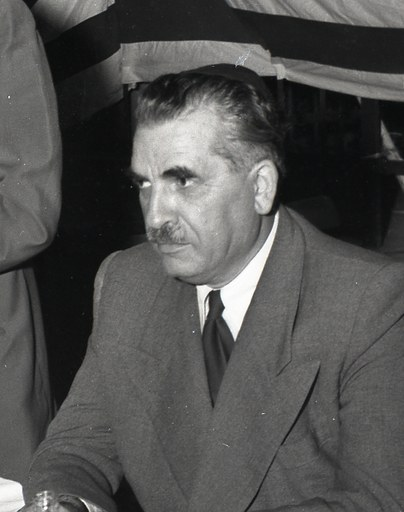
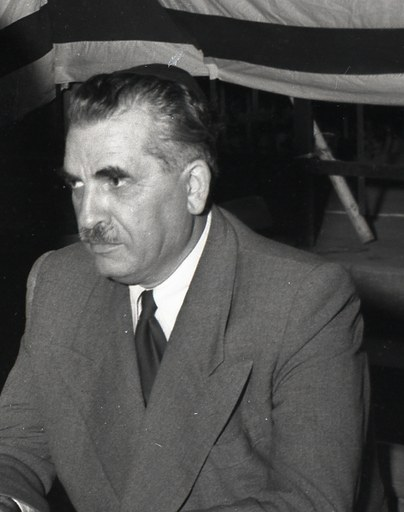
Portraits review fixes: NOTICE share-alike test, BY-SA template probes, unnamed artists, policy line, Shapira crop (refs #30)
- tools/tests/test_dp_portraits.py checks that the NOTICE block holding maimon.jpg and bentov.jpg starts with the CC BY-SA
  4.0 licence link and carries the share-alike statement.
- commons_licences: "Unknown author", "Anonymous" and similar no longer count as a named artist for CC BY or CC BY-SA;
  tests pair the CC BY-SA 4.0 short name with a 3.0 template and with a layout-only template (both stay unknown).
  Regenerating ASSETS.portraits.yaml changes no row.
- docs/CONTENT_POLICY.md (the portrait sentence only) and the design spec (an amendment note) record the owner's
  2026-10-14 decision to accept CC BY-SA 4.0 portraits, with share-alike; CC BY 4.0 (#30 ruling) is named there too.
- Shapira crop box moved from x=640 to x=730 (same 540x684, no upscaling) so the standing speaker's sleeve leaves the
  frame.

diff --git a/tools/tests/test_dp_portraits.py b/tools/tests/test_dp_portraits.py
@@ -16,7 +16,7 @@ BATCH = {
     "bentov": ("Mordechai_Bentov_(00330019).jpg", "promo/ref/people/Mordechai_Bentov_CCBYSA_Knesset.jpg", 0.5,
                "Knesset photographer", "CC BY-SA 4.0", "CC-BY-SA-4.0", "Cc-by-sa-4.0", (30, 26, 684, 918)),
     "shapira": ("Haim-Moshe_Shapira_(997008137213005171).jpg", "promo/ref/people/Haim-Moshe_Shapira_CCBY_1952.jpg", 0.37,
-                "Benno Rothenberg", "CC BY 4.0", "CC-BY-4.0", "Cc-by-4.0", (640, 900, 540, 684)),
+                "Benno Rothenberg", "CC BY 4.0", "CC-BY-4.0", "Cc-by-4.0", (730, 900, 540, 684)),
 }
 OLD_GPO = {"promo/ref/people/Yehuda_Leib_Maimon.jpg", "promo/ref/people/Mordechai_Bentov.jpg",
            "promo/ref/people/Haim-Moshe_Shapira.jpg"}
@@ -90,3 +90,18 @@ def test_licensing_and_importer_accept_cc_by_sa_portraits():
     assert 'p.Portrait.License != "CC BY-SA 4.0"' in importer
     tests = (ROOT / "unity/Assets/Tests/EditMode/PortraitImportTests.cs").read_text(encoding="utf-8")
     assert 'p.Portrait.License == "CC BY-SA 4.0"' in tests
+
+
+def test_notice_share_alike_block_gives_the_by_sa_licence_link_and_the_share_alike_statement():
+    # The header and sentence give the licence and URI for the adapted crops, which the per-file lines do not.
+    notice = (ROOT / "NOTICE").read_text(encoding="utf-8")
+    header = "CC BY-SA 4.0 (https://creativecommons.org/licenses/by-sa/4.0/)"
+    first = min(notice.index("\n- maimon.jpg:"), notice.index("\n- bentov.jpg:"))
+    start = notice.rindex("\nCC BY", 0, first) + 1      # the licence header that governs these entries
+    end = notice.find("\n\n", first)
+    block = notice[start:end if end != -1 else len(notice)]
+    assert "- maimon.jpg:" in block and "- bentov.jpg:" in block, "maimon.jpg and bentov.jpg sit under one header"
+    assert block.startswith(header)
+    statement = re.sub(r"\s+", " ", block)
+    assert ("Share-alike: these cropped portraits, and the matching files in promo/ref/people/, are adaptations and are "
+            "released under CC BY-SA 4.0") in statement

diff --git a/scripts/oss/commons_licences.py b/scripts/oss/commons_licences.py
@@ -27,6 +27,9 @@ UA = {"User-Agent": "statecraft-israel-licence-audit/1.0 (https://github.com/eya
 US_1996_TEMPLATES = {"PD-1996"}
 # The dated composite tags on the Weizmann source explicitly include US expiry.
 US_EXPIRED_COMPOSITES = {"PD-old-70-expired", "PD-old-70-1923"}
+# Commons artist values that name nobody: a CC BY or CC BY-SA attribution needs a named author.
+UNNAMED_ARTISTS = {"unknown", "unknown author", "author unknown", "unknown photographer", "anonymous",
+                   "anonymous photographer"}
 # Portrait files with no people.yaml record (promo/CREDITS.md lists Dayan as CC0).
 EXTRA = [("promo/ref/people/Moshe_Dayan_1962_CC0.jpg",
           "https://commons.wikimedia.org/wiki/File:Moshe_Dayan_met_mgr._A.C._Ramselaar_(cropped).jpg")]
@@ -55,7 +58,7 @@ def rule_for(path: str, source: str, licence_short: str, templates: list[str], a
                                                 "CC BY-SA 4.0")
     elif cc_by or cc_by_sa:
         name = "CC BY 4.0" if cc_by else "CC BY-SA 4.0"
-        if not rule["artist"]:
+        if not rule["artist"] or rule["artist"].lower() in UNNAMED_ARTISTS:
             rule.update(status="owner-verify", note=f"{name} needs a named artist for the attribution")
         elif not attributed:
             rule.update(status="owner-verify", note=f"{name} needs an attribution entry for this file in NOTICE")

diff --git a/scripts/oss/tests/test_commons_licences.py b/scripts/oss/tests/test_commons_licences.py
@@ -142,7 +142,7 @@ def test_cc_by_sa_without_artist_needs_the_owner():
 
 
 def test_cc_by_sa_text_without_the_template_is_unknown():
-    for templates in ([], CC_BY):
+    for templates in ([], CC_BY, ["Template:Cc-by-sa-3.0"], ["Template:Cc-by-sa-layout"]):
         r = cl.rule_for("p/a.jpg", "s", "CC BY-SA 4.0", templates, "Knesset photographer", attributed=True)
         assert r["licence"] == "unknown" and r["status"] == "owner-verify"
 
@@ -151,3 +151,11 @@ def test_cc_by_sa_template_does_not_make_a_cc_by_or_older_file_share_alike():
     for short in ("CC BY 4.0", "CC BY-SA 3.0"):
         r = cl.rule_for("p/a.jpg", "s", short, CC_BY_SA, "Knesset photographer", attributed=True)
         assert r["licence"] == "unknown"
+
+
+def test_unknown_or_anonymous_is_not_a_named_artist():
+    for short, templates in (("CC BY 4.0", CC_BY), ("CC BY-SA 4.0", CC_BY_SA)):
+        for artist in ("Unknown author", "unknown", "<span>Unknown author</span>", "Anonymous", "anonymous photographer",
+                       "Unknown photographer", "Author unknown"):
+            r = cl.rule_for("p/a.jpg", "s", short, templates, artist, attributed=True)
+            assert r["status"] == "owner-verify" and "artist" in r["note"], (short, artist)

diff --git a/docs/oss/DECISIONS.md b/docs/oss/DECISIONS.md
@@ -24,7 +24,7 @@ are already public. If a check fails, the file is removed from the tip with the 
 - [x] D11 The seven sensitive events (altalena, ten_days, operation_yoav, operation_hiram, operation_horev, bernadotte_assassination, reparations_claim) are sensitivity-reviewed: each event's YAML says `status: sensitivity-reviewed` (docs/m3-release.md, "OWNER STEP: sensitivity review"). The release gate also runs the sim's own check. Decided: the owner signed off all seven on 2026-10-10 for the itch.io build.
 - [x] D12 Ruleset bypass. Recommended: the repository admin role bypasses `protect-main` always (you keep merging locally and pushing); everyone else needs review and green checks. Alternative: admins bypass only through a pull request. Decided (owner, 2026-10-10): the recommended admin bypass (`scripts/oss/github/ruleset-main-review.json`).
 - [x] D13 Licence of the derived land-use texture `unity/Assets/Textures/Map/landuse.png` (`tools/land_bake.py`, issue #33; `ASSETS.yaml` row `owner-verify`). Owner answers four questions. (1) The 1948 settlement coordinates (`content/map/settlements_1948.yaml`, taken from the Wikipedia API, CC BY-SA 4.0) are facts, used only to place the citrus belt near the towns: does share-alike, or the EU database right for about 25 points taken from one source, reach a texture computed from them? (2) D6 found that the data.gov.il licence allows derivatives of the IMS station normals: confirm it covers landuse.png, whose rainfall is CHELSA corrected by them. (3) The Copernicus DEM licence allows redistributing derived products with its attribution (NOTICE carries it), and CHELSA V2.1 is CC0: confirm. (4) Which single `licence:` value does the row take: `Copernicus-DEM` (as now), or the most restrictive input (CC-BY-SA-4.0 if (1) says share-alike applies)? The same questions cover two derived map bakes, both recorded as `CC-BY-SA-4.0` and `owner-verify` until then: `unity/Assets/Resources/Map/BiomeColours.bytes` (biome colours from `content/map/hexes.json`, whose biomes come from the DEM, CHELSA and the IMS normals; #529) and `unity/Assets/Resources/Routes/RouteRibbons.bytes` (route ribbons on the DEM-derived heightmap; #436). Decided: (owner, 2026-10-14, given to personal2 directly, after "Tick all three" to the coordinator): on the licence, "CC BY-SA 4.0 (Recommended)"; on the other inputs, "Accept as recorded (Recommended)". So (1) and (4): share-alike is taken to reach the bakes, and `landuse.png`, `BiomeColours.bytes` and `RouteRibbons.bytes` are all `CC-BY-SA-4.0`, the most restrictive input; (2) and (3): the IMS/data.gov.il (D6), Copernicus DEM and CHELSA V2.1 findings above are confirmed as written. The three `ASSETS.yaml` rows are verified.
-- [ ] D-P Portraits: every `owner-verify` row in `ASSETS.portraits.yaml` checked on Commons for its US status, and the `promo/ref/*-src.jpg` and `*-sheet.jpg` provenance confirmed. Check on 2026-10-10: all 26 `owner-verify` rows (13 Government Press Office photos, 1948-1960, each used twice) carry only {{PD-Israel}}/{{PD-IsraelGov}} on Commons, with no US public-domain rationale; the URAA likely restored their US copyright (Israel protected them on 1996-01-01). Verdict: risk in the US. The promo/ref sheets and the AI likenesses in promo/final 04 and 08 derive from them. Needs the owner's call (replace with US-safe sources, see the issue for it). Partial progress, 2026-10-14 (refs #30): owner rulings relayed by the coordinator: CC BY-SA 4.0 is accepted for portraits ("yes"; attribution in NOTICE, and a crop of a CC BY-SA 4.0 photograph is itself CC BY-SA 4.0); small photos that would need upscaling are not approved ("small photos not approved"); Shapira is the seated man on the right of the Meitar photograph of 23 October 1952; "Replace the 3 now". 3 replaced: Maimon and Bentov (Knesset Archives, CC BY-SA 4.0) and Shapira (Meitar Collection, Benno Rothenberg, CC BY 4.0), each cropped and downscaled to 512 px tall, never upscaled; `commons_licences.py` now records an explicit Cc-by-sa-4.0 file with a named artist and a NOTICE entry as verified. With the 4 done earlier (Ben-Gurion #172, Sharett #220, Remez and Levin #438), 7 of the 13 GPO photographs are replaced in the game. Kaplan, Gruenbaum, Bernstein and Zisling remain on GPO photographs pending larger sources (their known candidates are too small); Rosen and Sheetrit also remain, pending the owner's likeness check. The promo/ref sheets and the AI likenesses in promo/final 04 and 08 still derive from the GPO photographs. The line stays open. Decided:
+- [ ] D-P Portraits: every `owner-verify` row in `ASSETS.portraits.yaml` checked on Commons for its US status, and the `promo/ref/*-src.jpg` and `*-sheet.jpg` provenance confirmed. Check on 2026-10-10: all 26 `owner-verify` rows (13 Government Press Office photos, 1948-1960, each used twice) carry only {{PD-Israel}}/{{PD-IsraelGov}} on Commons, with no US public-domain rationale; the URAA likely restored their US copyright (Israel protected them on 1996-01-01). Verdict: risk in the US. The promo/ref sheets and the AI likenesses in promo/final 04 and 08 derive from them. Needs the owner's call (replace with US-safe sources, see the issue for it). Partial progress, 2026-10-14 (refs #30): owner rulings of 2026-10-14, given to personal2 directly ("Replace the 3 now" relayed by the coordinator): CC BY-SA 4.0 is accepted for portraits ("yes"; attribution in NOTICE, and a crop of a CC BY-SA 4.0 photograph is itself CC BY-SA 4.0); small photos that would need upscaling are not approved ("small photos not approved"); Shapira is the seated man on the right of the Meitar photograph of 23 October 1952; "Replace the 3 now". 3 replaced: Maimon and Bentov (Knesset Archives, CC BY-SA 4.0) and Shapira (Meitar Collection, Benno Rothenberg, CC BY 4.0), each cropped and downscaled to 512 px tall, never upscaled; `commons_licences.py` now records an explicit Cc-by-sa-4.0 file with a named artist and a NOTICE entry as verified. With the 4 done earlier (Ben-Gurion #172, Sharett #220, Remez and Levin #438), 7 of the 13 GPO photographs are replaced in the game. Kaplan, Gruenbaum, Bernstein and Zisling remain on GPO photographs pending larger sources (their known candidates are too small); Rosen and Sheetrit also remain, pending the owner's likeness check. The promo/ref sheets and the AI likenesses in promo/final 04 and 08 still derive from the GPO photographs. The line stays open. Decided:
 - [x] D-B Region border data (`content/map/subdistrict*`, `ASSETS.yaml` row verified). The 1948 sub-districts are digitised from the Survey of Palestine map "Administrative Divisions" (1946, overprinted May 1947) and defined by the Administrative Divisions (Amendment) Proclamation, 1947 (Palestine Gazette No. 1552); area check from Village Statistics 1945. Check on 2026-10-11 (factual, not legal advice): Government of Palestine works got 50 years from publication (Copyright Act 1911, extended to Palestine in 1924), so they are public domain in Israel and the UK since the end of 1997 at the latest; Commons tags scan (a) `06_Palestine-_Administrative_divisions.jpg` {{PD-UK-Gov}} (in the Map template's permission field; NLI accession per Commons "Pal 1143; Pal 1143b; Pal 1196?") and scan (b), the Eran Laor copy (FL147392105), {{PD-UKGov}}{{PD-IsraelGov}}; but, as for D-P, they were protected on 1996-01-01, so a URAA-restored US copyright in the map's drawing (to about 2041-42) is possible. What the repository holds is facts (where legally defined lines run), redrawn by our own method; no image is copied. Also for the owner: the Hebrew and Arabic names (from Wikipedia), the sub-district names as shown (official Gazette English), outlining the Mandate frontier, the Arabic for Samaria District ("لواء السامرة"; "لواء نابلس" is also common), the near-frontier shore hexes (Taba, west of Rafah, the Dead Sea by the Lisan: each follows its nearest land), and moving the entries from `draft` to reviewed. Owner ruling (2026-10-11) on when the layer shows: from the 1948 start until the 1949 armistice lines replace it, each front switching to its armistice line on that agreement's date (Feb-Jul 1949) once that data is built; until then the layer stays, labelled "Mandate sub-districts, 1947" (`content/map/subdistrict_hexes_1948.yaml` `label`, `shown_from`, `shown_until`). Decided (owner-delegated, 2026-10-11): allowed; facts redrawn, no image copied. The repository holds facts (where legally defined lines run), redrawn by our own method from cited sources; no image or drawing is copied or committed, and US copyright does not protect facts (Feist), so a possible URAA copyright in the map's drawing does not reach the data. Further rulings (owner-delegated to the controller, 2026-10-11): the near-frontier shore hexes stay as built (each follows its nearest land); the Mandate frontier outline stays; Samaria District in Arabic stays "لواء السامرة" (no official Arabic Mandate text was reachable online; "لواء نابلس" is the common usage; unverified); the Hebrew and Arabic names from Wikipedia are accepted for now, the source noted per row; the sensitivity review is done (the entries are `sensitivity-reviewed`), while the 1947-48 amendment check stays open. Display rule (controller ruling, owner-delegated, 2026-10-11): the hex that holds a Gazette-listed town always takes that town's sub-district, never `outside` (`tools/borders_bake.py` rule 5; Rafah town's hex is Gaza, Metulla's Safad).
 - [x] D-A The 1949 armistice lines (`content/map/armistice*`, `ASSETS.yaml` row owner-verify). Sources: the four General Armistice Agreements (UNTS vol. 42) and their annexed maps, which are UN documents with symbols and so not copyrighted (UN Administrative Instruction ST/AI/189/Add.9/Rev.2, para. 2; Commons {{PD-UN-doc}}, {{PD-UN-map}}); the Syria map is drawn on a 1:50,000 base of the Service Geographique des FFL, of which nothing is taken but the agreement's own line and zone (drawn by the parties and the UN); the Egypt line uses the Survey of Palestine sheet "Gaza" for three positions (the Wadi Hasi mouth, Deir Suneid, the highway), a Government of Palestine work under D-B; the Lebanon line is the D-B Mandate frontier. Check on 2026-10-11 (factual, not legal advice). Rulings (controller, owner-delegated, and the owner, 2026-10-11): (1) the source plan as built is approved: the agreements and their annexed maps; IBS 46 (1965) only as a named cross-check; (2) Jordan is traced from the low-resolution UNISPAL copy of the signed map 1 (3119 x 8630 px), every feature `source_quality: low_res_scan` and labelled low-accuracy, to be replaced from a full-resolution scan; the Commons "own work" copy ("File:Green Line - Cease Fire Agreement 30 Nov 1948.jpg") is never used without established provenance; Jerusalem (map 2), the no-man's-lands and Mount Scopus are recorded gaps; (3) the 1950 modus vivendi line (S/1471, a signed UN document; sheet 2 from the UN Treaty Collection) is its own feature from 22 Feb 1950, and the 1949 Egypt line south of Gaza stays undrawn; (4) the DMZ part names stand; (5) the sensitivity review is the controller's, after the staff review: entries stay `draft`; (6) the true-polyline overlay is #237, not built now; (7) the Sinai frontier beyond Gaza is not labelled as the Egypt line. Open for the owner: whether a full-resolution Jordan scan is requested from the archives (an outward action). Display, as built: each front switches on its agreement's date (recorded per front in the sub-district layer, `Subdistricts1948.FrontReplaced`); from then its zones are drawn over the sub-districts and the label and info panel name its lines, while the sub-district bands stay as the base (the lines leave gaps). Conventions recorded here: the Jordan line A stages are Art. VI.3 deadlines ('within five / seven / fifteen weeks') and each stretch is shown from its deadline, the actual handover dates not researched; the agreements' own titles ('Egyptian-Israeli', 'Lebanese-Israeli', 'Hashemite Jordan Kingdom-Israel', 'Israeli-Syrian' General Armistice Agreement) are shown in the 'Egypt-Israel' style, a paraphrase; the DMZ part names mix Arabic and Hebrew forms (Tell el Qadi and El Hamma beside Mishmar HaYarden and Ein Gev). Map bases (only the agreements' lines are taken, positions redrawn, no image copied; US copyright does not reach facts): the Syria map's 1:50,000 Service Geographique des FFL base; Jordan map 1's Survey of Palestine 1:250,000 (1946) base, a Government of Palestine work (D-B); the Gaza sheet (D-B); S/1471's base sheets, Survey of Palestine 1:20,000 (rev. 1946) reprinted with a Survey of Israel imprint, an Israeli government reprint of about 1949-50, outside D-B, with a possible US URAA term in the drawing. The Jordan control points' coordinates (Wikidata, CC0; Wikipedia, CC BY-SA) are facts used only to georeference, kept in the MIT tool source. Decided (owner, 2026-10-14, given to personal2 directly, after "Tick all three" to the coordinator): "Tick it, no request now (Recommended)". The rulings above are accepted as recorded, and no archive request for a full-resolution Jordan scan is made now; it can be requested later, and the Jordan features stay `low_res_scan` until then. The `ASSETS.yaml` row is verified.
 - [x] D-C Control areas, who held which areas in 1948-49 (`content/map/control*`, `ASSETS.yaml` row owner-verify). Source: Israel State Archives map 6158/1 ('Palestine: the partition lines and the front lines', 1949, ISA-PMO-GovernmentSecretary-R0005czg), the NYU Faculty Digital Archive copy (2368 x 4078 px; the ISA viewer refused a plain client and Commons has no copy, checked 2026-10-14; no outward request to the archives), about +-1-2 km. Check on 2026-10-14 (factual, not legal advice): a 1949 Israeli state work, out of copyright in Israel (Copyright Act 2007 s. 42; the 50-year term for state works), so the D-A basis (UN documents) does not apply; as for D-B, a work still protected in Israel on 1996-01-01 may carry a URAA-restored US copyright in its drawing, which does not reach the facts taken (where a front line ran on a date: Feist); its base is a Survey of Palestine sheet (D-B). The repository holds facts redrawn by our own method; no image is copied or committed. From each 1949 agreement's date the sides follow D-A's lines. Decided (owner, 2026-10-14, given in the coordinator's session): 'Allow it'. The owner's answers on #555 the same day: the ground east of the Beersheba-Hebron front kept as is; the staleness (Isdud, Majdal, Yad Mordechai until 24 February 1949) and the pins (Mishmar HaYarden, Qalqilya, Huleiqat, by Wikipedia's reading) accepted; the legend, captions, info-panel strings and six-line label approved, in English and Hebrew.

diff --git a/docs/CONTENT_POLICY.md b/docs/CONTENT_POLICY.md
@@ -33,8 +33,10 @@ These rules protect the game and the people in it. They are not a viewpoint:
 4. **The Holocaust is an event the player reacts to, never one the player plays.** It is shown without swastikas.
 5. **Real people.** People appear in their public roles and documented acts. Competence and loyalty values are game
    balance, not judgements of the person, and `content/people.yaml` labels them so. The maintainer does not add living
-   people, and records a legal review before any release that includes one. Portraits are public-domain or CC0
-   photographs only; the maintainer refuses share-alike portraits at review.
+   people, and records a legal review before any release that includes one. Portraits are public-domain, CC0, CC BY 4.0
+   (owner ruling on #30, 13 October 2026) or CC BY-SA 4.0 photographs (owner, 14 October 2026, `docs/oss/DECISIONS.md`
+   D-P: "yes" to CC BY-SA 4.0 for portraits); share-alike applies, so a portrait cropped from a CC BY-SA 4.0 photograph
+   is itself released under CC BY-SA 4.0 and credited in `NOTICE`. The maintainer refuses any other licence at review.
 6. **AI-assisted writing** is a draft. A human checks every factual claim in it against its sources, one by one,
    before the entry is marked `fact-checked`; the maintainer applies this rule at review.
 

diff --git a/promo/CREDITS.md b/promo/CREDITS.md
@@ -69,8 +69,9 @@ Each crop is taken from the full-resolution Commons original, downscaled to 512 
   https://commons.wikimedia.org/wiki/File:Haim-Moshe_Shapira_(997008137213005171).jpg
   Identity: NLI record 997008137213005171 (archive ARC. 4* 2068 / 8979), «בתצלום: טקס חלוקת פרס יעול ע"י משרד הפנים.
   בימת הנואמים וביניהם שר הפנים משה שפירא.» The seated, moustached man on the right of the frame; not the standing
-  speaker in glasses, and not the men on the far left. Identity confirmed by the owner (D-P, 14 October 2026).
-  Original 1330 x 1889; crop box x=640, y=900, w=540, h=684; output 404 x 512 (scale 0.749).
+  speaker in glasses (the box starts right of his sleeve), and not the men on the far left. Identity confirmed by the
+  owner (D-P, 14 October 2026).
+  Original 1330 x 1889; crop box x=730, y=900, w=540, h=684; output 404 x 512 (scale 0.749).
 - Mordechai Bentov: crop of Knesset photographer / Knesset Archives, between 14 February 1949 and 22 November 1965 (the
   file's date range, his Knesset membership), CC BY-SA 4.0 (attribution in NOTICE; share-alike, so this crop is
   CC BY-SA 4.0 too):

diff --git a/docs/superpowers/specs/2026-10-09-statecraft-israel-design.md b/docs/superpowers/specs/2026-10-09-statecraft-israel-design.md
@@ -227,7 +227,7 @@ Each turn runs in six steps:
 6. **Geography and portraits** reuse the pipelines proven in `promo/`:
    - The map comes from Copernicus elevation data, with attribution.
    - Settlement coordinates and founding dates are sourced for each era.
-   - Portraits use **public-domain or CC0 photos only**. The licence is recorded automatically, a human checks the likeness, and share-alike sources are rejected.
+   - Portraits use **public-domain or CC0 photos only**. The licence is recorded automatically, a human checks the likeness, and share-alike sources are rejected. *Amended: CC BY 4.0 is accepted (owner ruling on #30, 13 October 2026), and so is CC BY-SA 4.0 (owner, 14 October 2026, `docs/oss/DECISIONS.md` D-P), whose crops are themselves CC BY-SA 4.0.*
 7. **Automated content tests** run in `dotnet test` and check that:
    - every file matches its schema;
    - every reference resolves;
